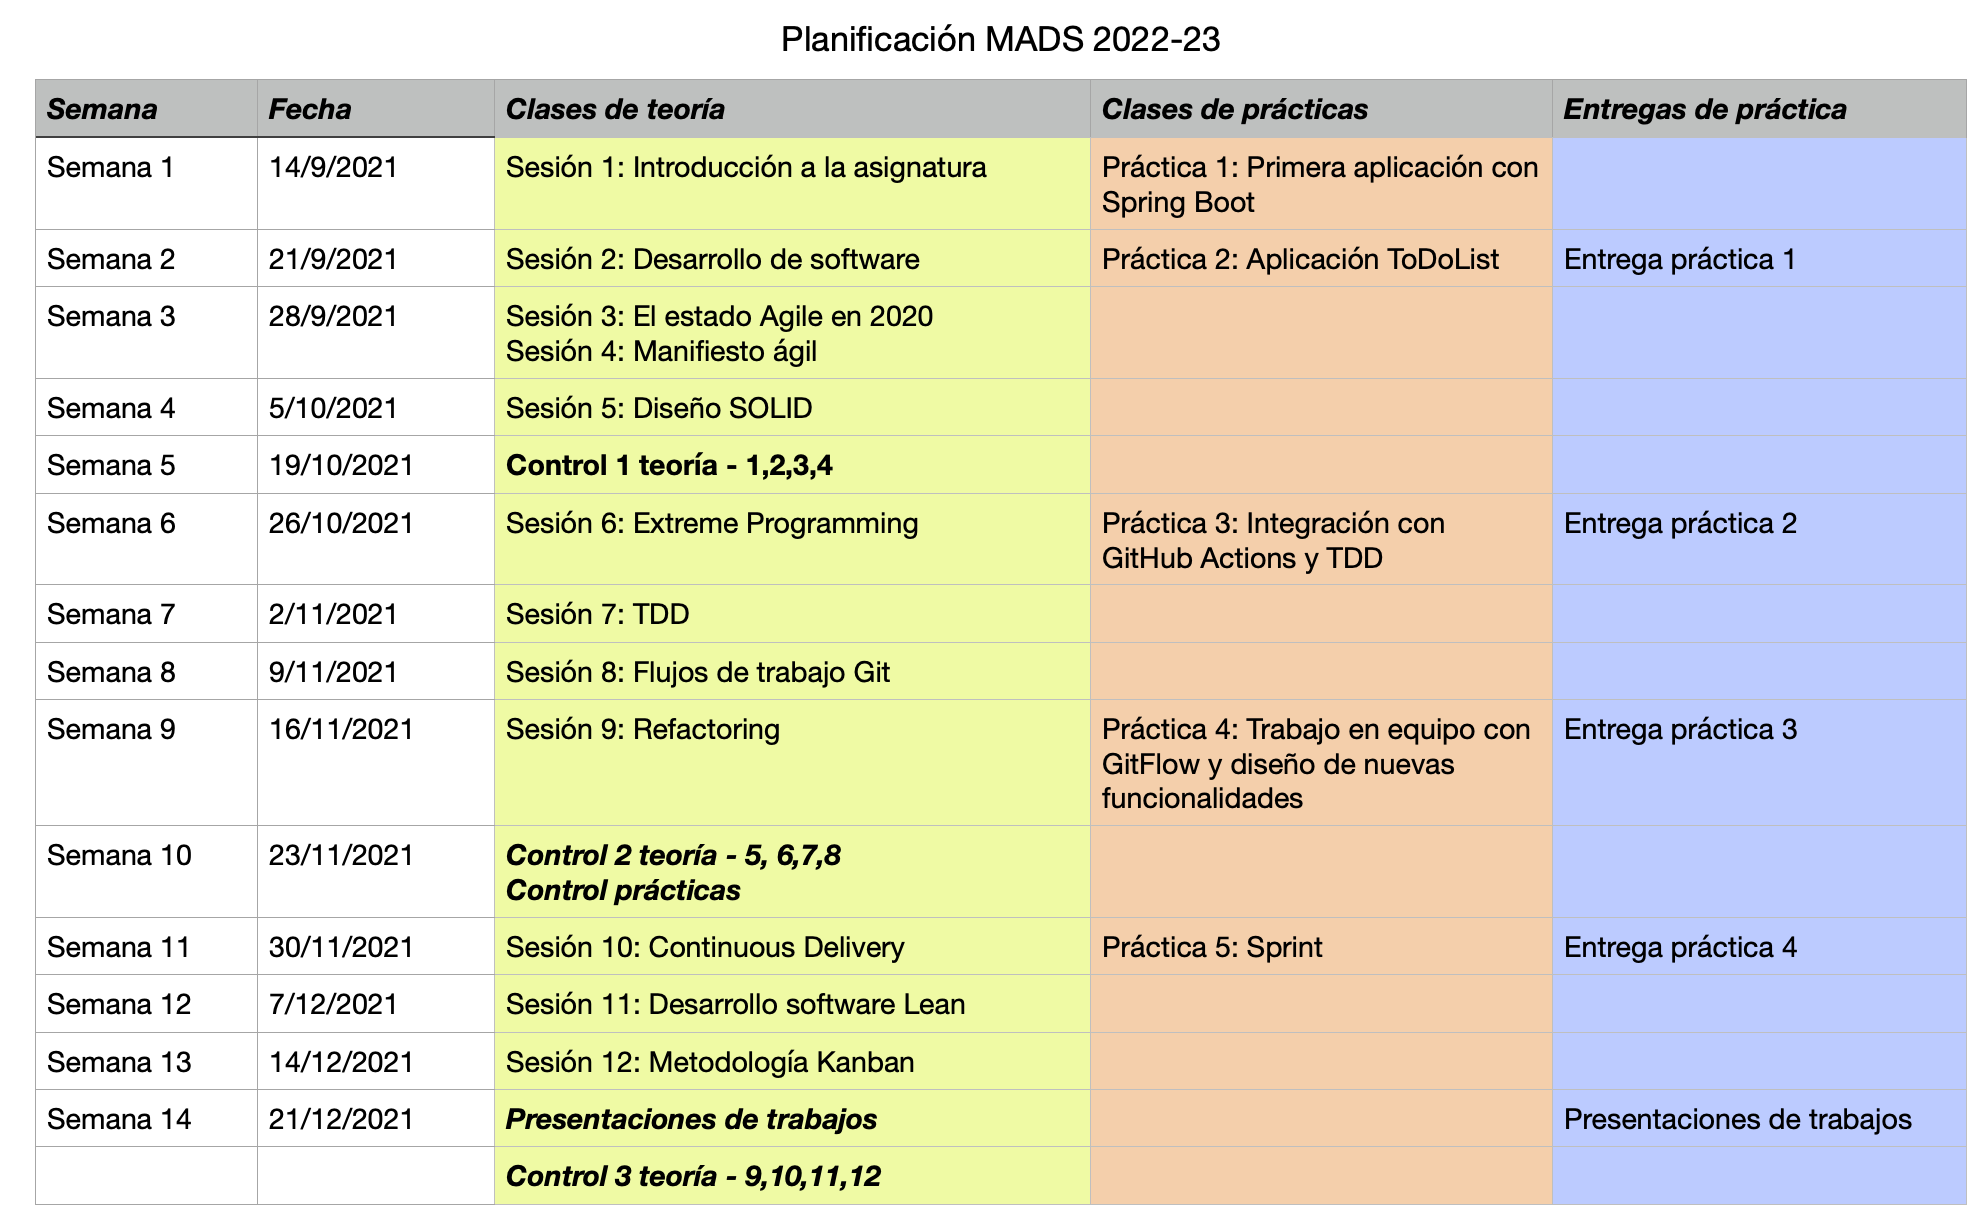
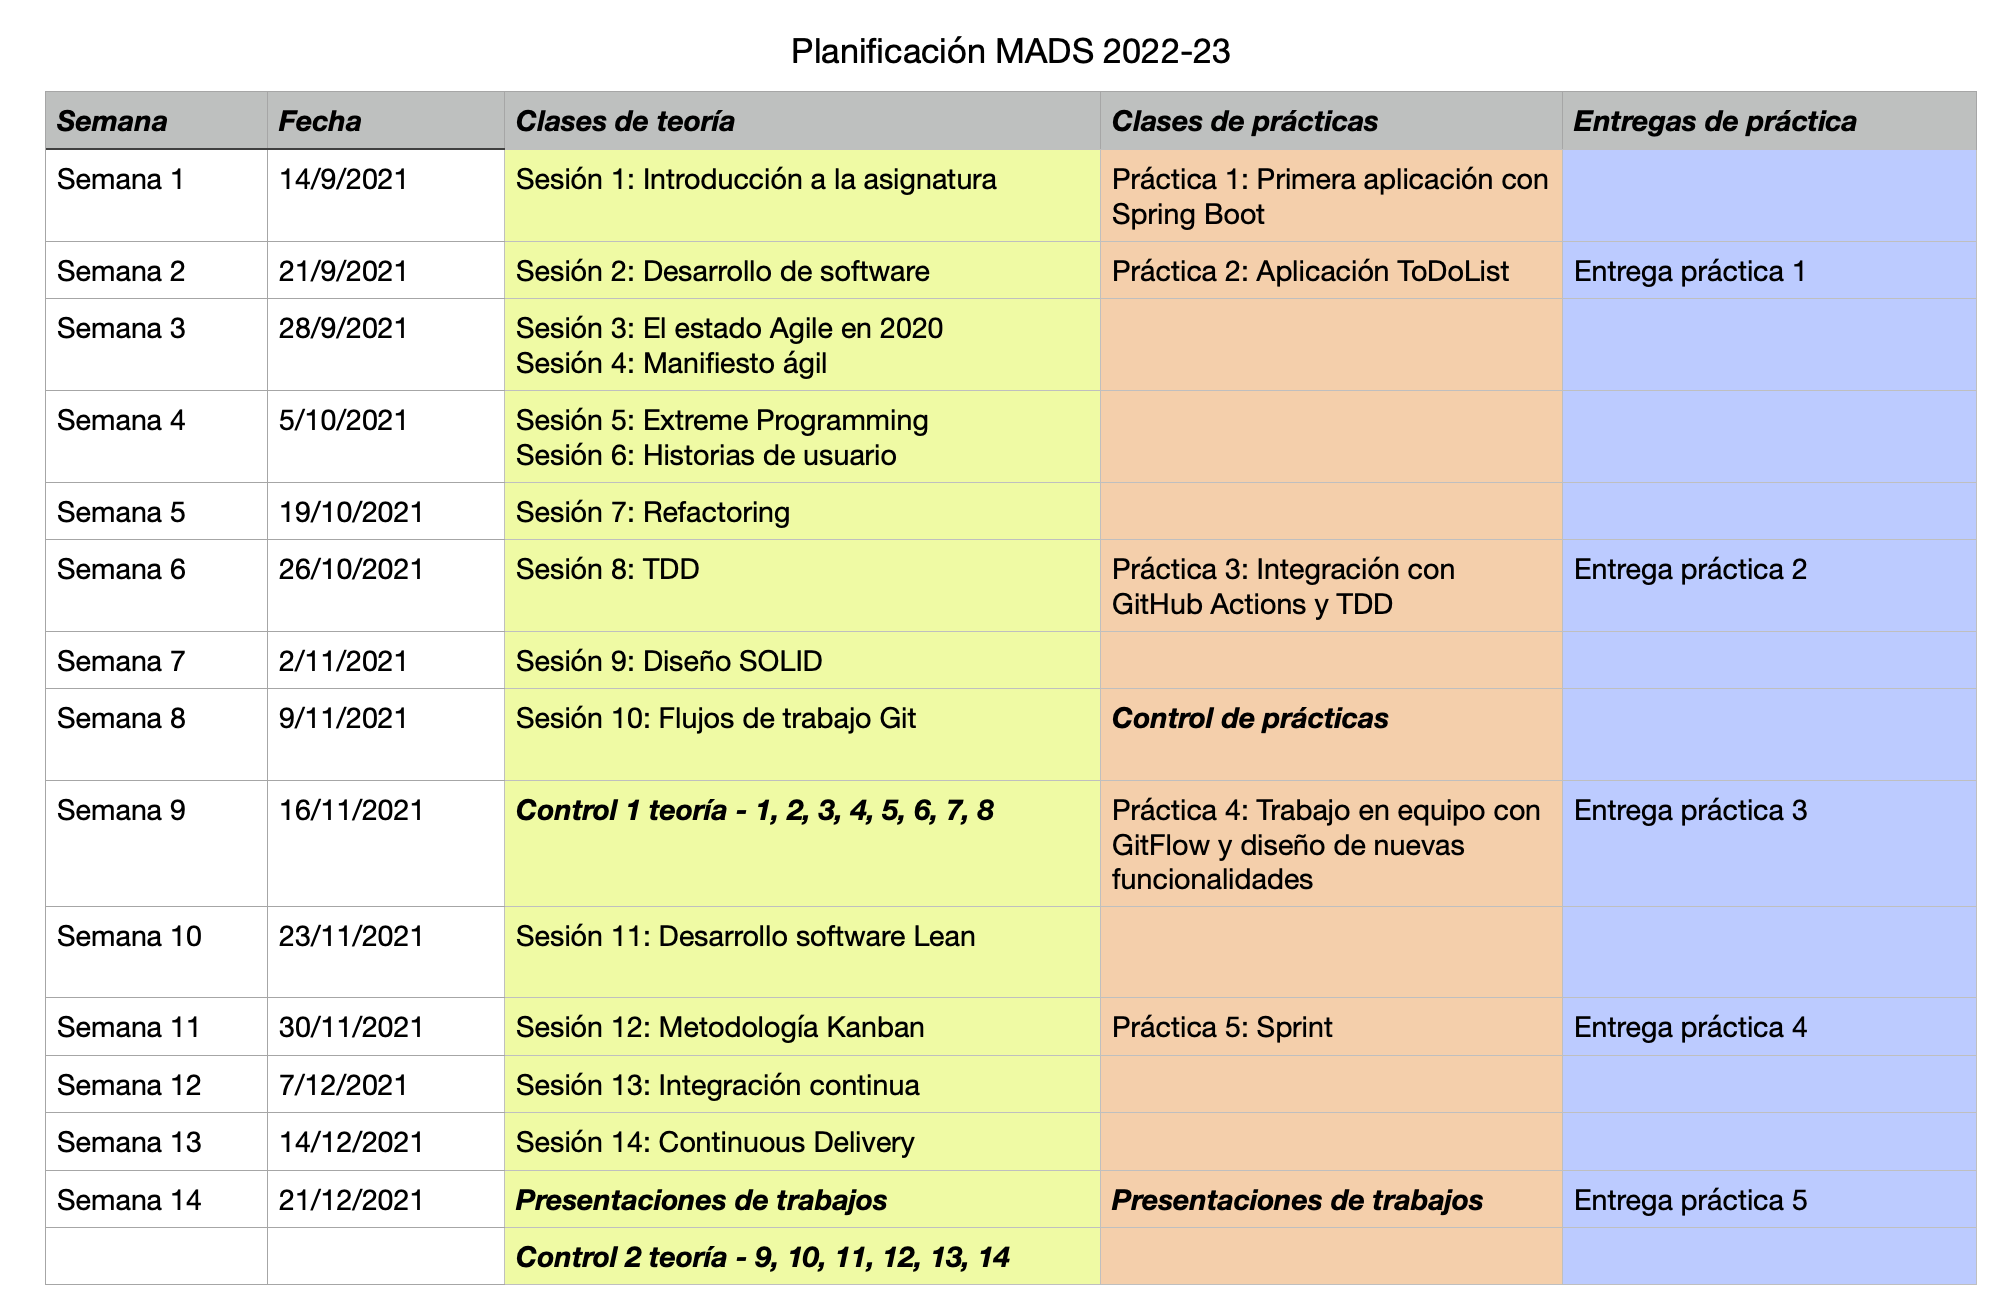
Actualizado el calendario de sesiones

diff --git a/apuntes/01-intro-mads/intro-mads.md b/apuntes/01-intro-mads/intro-mads.md
@@ -181,17 +181,18 @@ teoría y un 60% a prácticas.
 
 ### Teoría (40%) ###
 
-Los contenidos de la asignatura se dividen en 4 grandes bloques:
+Los contenidos de la asignatura se dividen en 4 grandes bloques (el
+número de sesión corresponde al orden en el que se van a ver en la asignatura):
 
 1. Valores y principios ágiles para el desarrollo del software
-   (sesiones 1, 2, 3 y 4)
-2. XP (eXtreme Programming) (sesiones 5, 6, 7 y 9)
-3. Integración y entrega continua (sesiones 8 y 10)
-4. Metodologías lean y Kanban (sesiones 11 y 12)
+   (3 semanas, sesiones 1, 2, 3 y 4)
+2. XP (eXtreme Programming) (4 semanas, sesiones 5, 6, 7 y 8)
+3. Metodologías lean y Kanban (2 semanas, sesiones 11 y 12)
+4. Integración y entrega continua (3 semanas, sesiones 10, 13 y 14)
 
 La evaluación de los contenidos de teoría se hará de forma continua,
-mediante **3 exámenes de tipo test** que ponderarán un 10% cada uno y un
-**trabajo individual** de redacción sobre alguno de los temas de la
+mediante **2 exámenes de tipo test** que ponderarán un 15% cada uno y
+un **trabajo individual** de redacción sobre alguno de los temas de la
 asignatura que ponderará otro 10%.
 
 Para el trabajo individual deberás realizar escoger un tema
@@ -238,13 +239,11 @@ metodologías utilizadas en las prácticas. Tendrá una ponderación de un
 
 Las fechas de los exámenes serán las siguientes:
 
-- Examen 1 de teoría (10%): miércoles 13 de octubre a las 11:00 sobre las sesiones 1 a 4.
-- Examen 2 de teoría (10%): miércoles 17 de noviembre a las 11:00
-  sobre las sesiones 5 a 8.
-- Examen 3 de teoría (10%): En enero, en la fecha y hora en la que se realice
-  el examen final de la asignatura, sobre las sesiones 9 a 12.
-- Examen de prácticas (20%): miércoles 17 de noviembre, en las horas
-  de prácticas.
+- Examen 1 de teoría (15%): miércoles 16 de noviembre a las 11:00 sobre las sesiones 1 a 8.
+- Examen 2 de teoría (15%): En enero, en la fecha y hora en la que se
+  realice el examen final de la asignatura, sobre las sesiones 9 a 14.
+- Examen de prácticas (20%): miércoles 2 de noviembre, en las horas de
+  prácticas.
 
 Los exámenes de teoría serán de preguntas de tipo test. En el examen
 de prácticas se deberá trabajar con un repositorio GitHub con una
@@ -281,7 +280,7 @@ estándar (el _daily scrum_, el _sprint planning_, etc.) sin entender
 los valores y principios subyacentes nos convertiremos en _scrum
 zombies_.
 
-El bloque tendrá una **duración de 4 sesiones** y veremos en él temas
+El bloque tendrá una **duración de 3 semanas** y veremos en él temas
 relacionados con los valores y principios ágiles 
 
 - Desarrollo del software, características y modelos, aceptación del cambio.
@@ -325,12 +324,13 @@ diseñar el software de forma que se facilite el cambio y para aislar
 las funcionalidades existentes de forma que las nuevas funcionalidades
 no entren en conflicto con las ya existentes.
 
-El bloque tendrá una **duración de 4 sesiones** y veremos en él los
+El bloque tendrá una **duración de 4 semanas** y veremos en él los
 aspectos fundamentales de XP. Veremos en profundidad TDD, haciendo
 una demostración de este tipo de metodología de desarrollo. Hablaremos
 también de diseño SOLID y de refactorización.
 
 - Valores y prácticas XP.
+- Historias de usuario.
 - TDD, Desarrollo Dirigido por los Tests.
 - Cambio, código y comunicación: diseño SOLID y refactorización.
 
@@ -361,37 +361,7 @@ popularizadas por él.
 
 </td></tr></table>
 
-## Bloque 3: Integración y entrega continua ##
-
-<img src="imagenes/gitflow.png" width="200px" align="right"/>
-
-Uno de los elementos importantes de las metodologías ágiles es la
-entrega continua al cliente de software que funciona. Para poder
-realizar esta entrega es fundamental poder añadir funcionalidades
-continuamente al software que estamos desarrollando y poder
-desplegarlo y ponerlo en manos del cliente en cuestión de minutos.
-
-Los sistemas como Git y las herramientas de integración continua
-permiten trabajar con múltiples versiones del producto de forma segura
-y automatizar la ejecución de los tests y la construcción y despliegue
-de los ejecutables.
-
-Este bloque tendrá una **duración de 2 sesiones** y en él estudiaremos en
-profundidad Git y la plataforma GitHub con todas las funcionalidades
-que proporciona para realizar una integración continua de nuestro
-proyecto software: pull requests, revisión de código, scripts de
-compilación y despliegue. También estudiaremos la herramienta Docker
-que nos permitirá empaquetar nuestra aplicación en un contenedor que
-podrá ser desplegado y ejecutado en cualquier lugar.
-
-- Git como sistema de control de versiones, flujos de trabajo con
-  Git.
-- Principios de la entrega continua de software.
-- Herramientas y tecnologías para la integración continua, scripts
-  de construcción y despliegue, infraestructura y entornos de
-  integración, cloud.
-
-## Bloque 4: Metodologías lean y Kanban ##
+## Bloque 3: Metodologías lean y Kanban ##
 
 <img src="imagenes/kanban.png" width="200px" align="right"/>
 
@@ -412,12 +382,43 @@ fundamental de la metodología es el uso de tableros en los que
 visualizar el estado de todas las tareas que está realizando el
 equipo.
 
-El bloque tendrá una **duración de 2 sesiones** y veremos los siguientes apartados:
+El bloque tendrá una **duración de 2 semanas** y veremos los siguientes apartados:
 
 - Fabricación lean, empresa lean, desarrollo de software lean.
 - Fundamentos de Kanban: visualización, ítems de trabajo, trabajo
   en progreso, flujo, mejora continua, límite en el WIP.
 - Kanban vs. Scrum.
+
+## Bloque 3: Integración y entrega continua ##
+
+<img src="imagenes/gitflow.png" width="200px" align="right"/>
+
+Uno de los elementos importantes de las metodologías ágiles es la
+entrega continua al cliente de software que funciona. Para poder
+realizar esta entrega es fundamental poder añadir funcionalidades
+continuamente al software que estamos desarrollando y poder
+desplegarlo y ponerlo en manos del cliente en cuestión de minutos.
+
+Los sistemas como Git y las herramientas de integración continua
+permiten trabajar con múltiples versiones del producto de forma segura
+y automatizar la ejecución de los tests y la construcción y despliegue
+de los ejecutables.
+
+Este bloque tendrá una **duración de 3 semanas** y en él estudiaremos
+en profundidad Git y la plataforma GitHub con todas las
+funcionalidades que proporciona para realizar una integración continua
+de nuestro proyecto software: pull requests, revisión de código,
+scripts de compilación y despliegue. También estudiaremos principios
+generales que guían la entrega continua de software. Y herramientas
+como Docker que nos permitirá empaquetar nuestra aplicación en un
+contenedor que podrá ser desplegado y ejecutado en cualquier lugar.
+
+- Git como sistema de control de versiones, flujos de trabajo con
+  Git.
+- Principios de la entrega continua de software.
+- Herramientas y tecnologías para la integración continua, scripts
+  de construcción y despliegue, infraestructura y entornos de
+  integración, cloud.
 
 ## Prácticas ##
 
